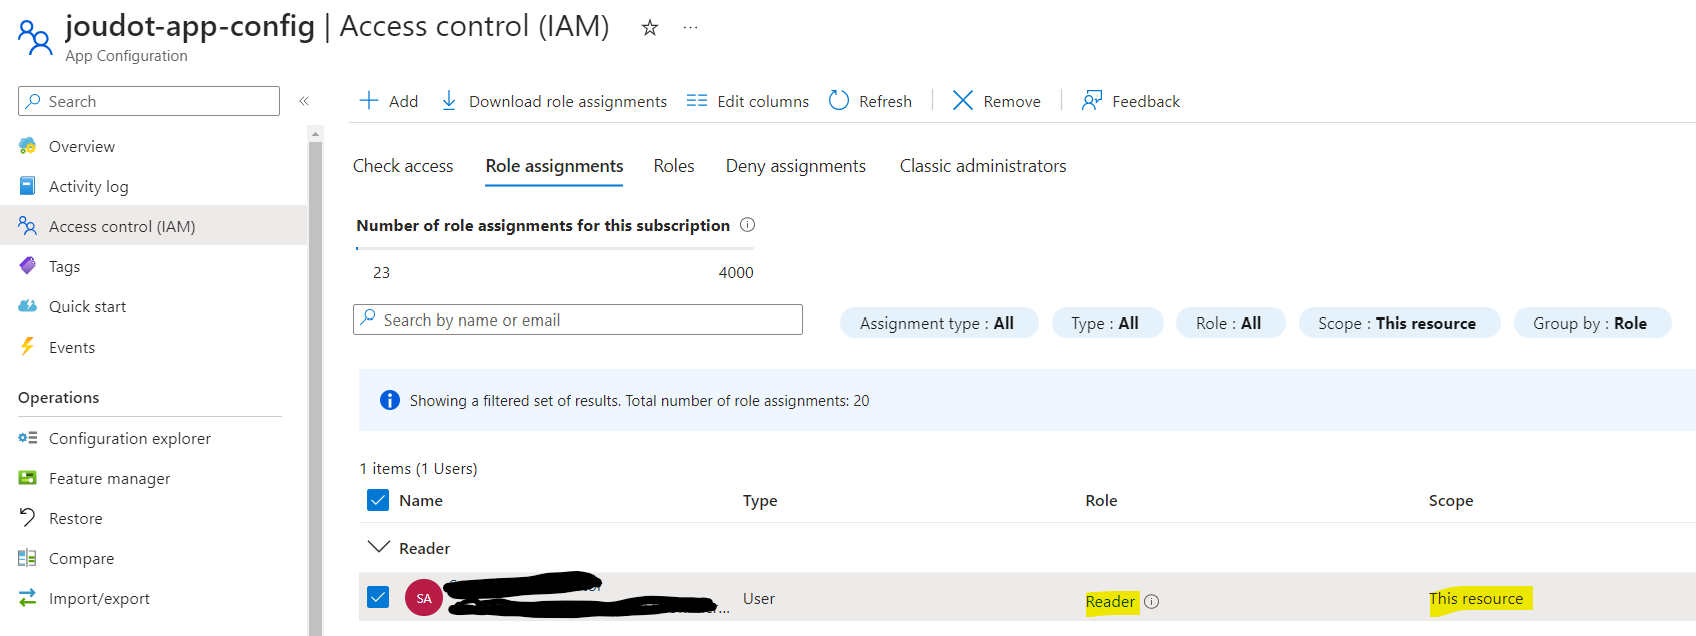
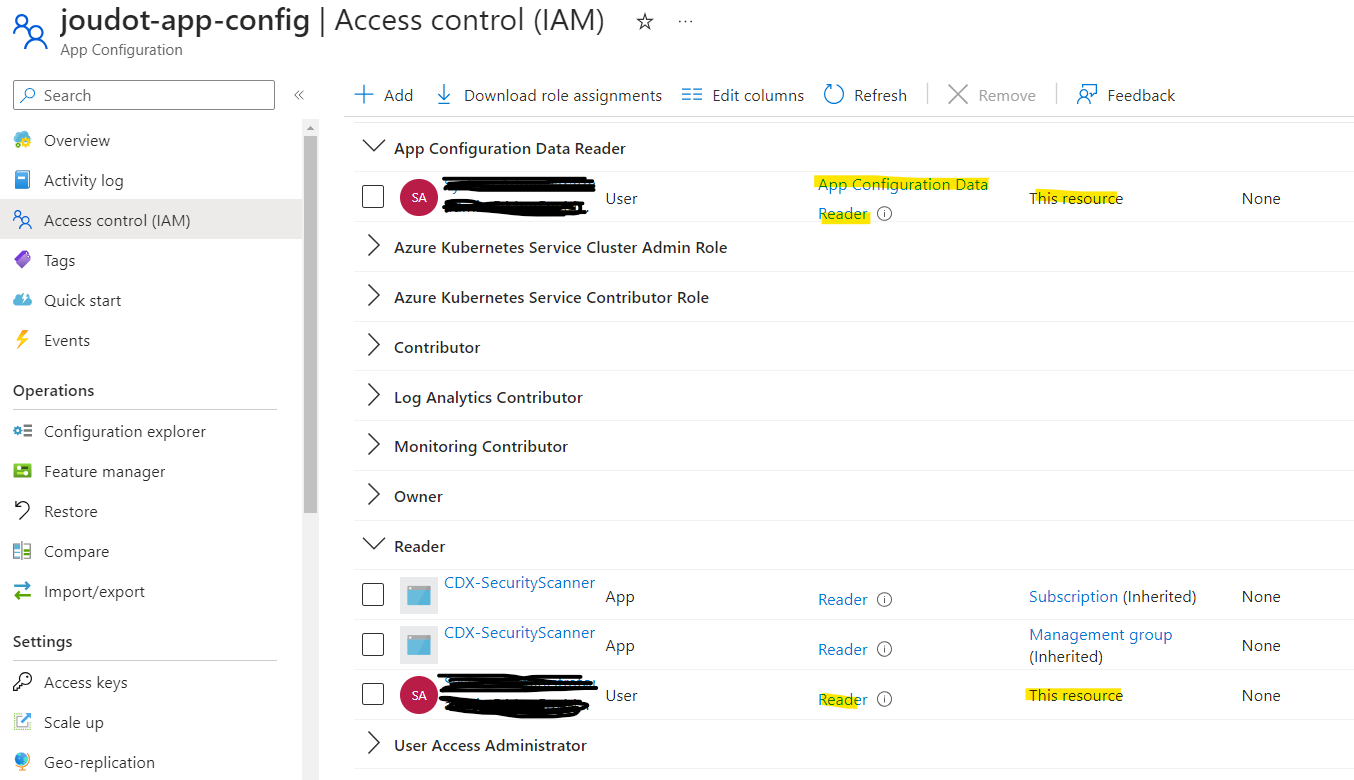
fixing RBAC for App Config

diff --git a/readme.md b/readme.md
@@ -7,7 +7,7 @@ The intend of this repository is to test a few features offered by Azure App Con
 # Sources
 To create this sample, I followed the instructions here: https://learn.microsoft.com/en-us/azure/azure-app-configuration/quickstart-aspnet-core-app?tabs=core6x
 
-Instead of using the read only key as a connection string, I used DefaultAzureCredential and added myself as a resource reader to be authorized.
+Instead of using the read only key as a connection string, I used DefaultAzureCredential and added myself as a reader to be authorized to access both the App Config environment and read the configuration.
 
 ![](Img/AppConfigurationRBAC.png)
 
